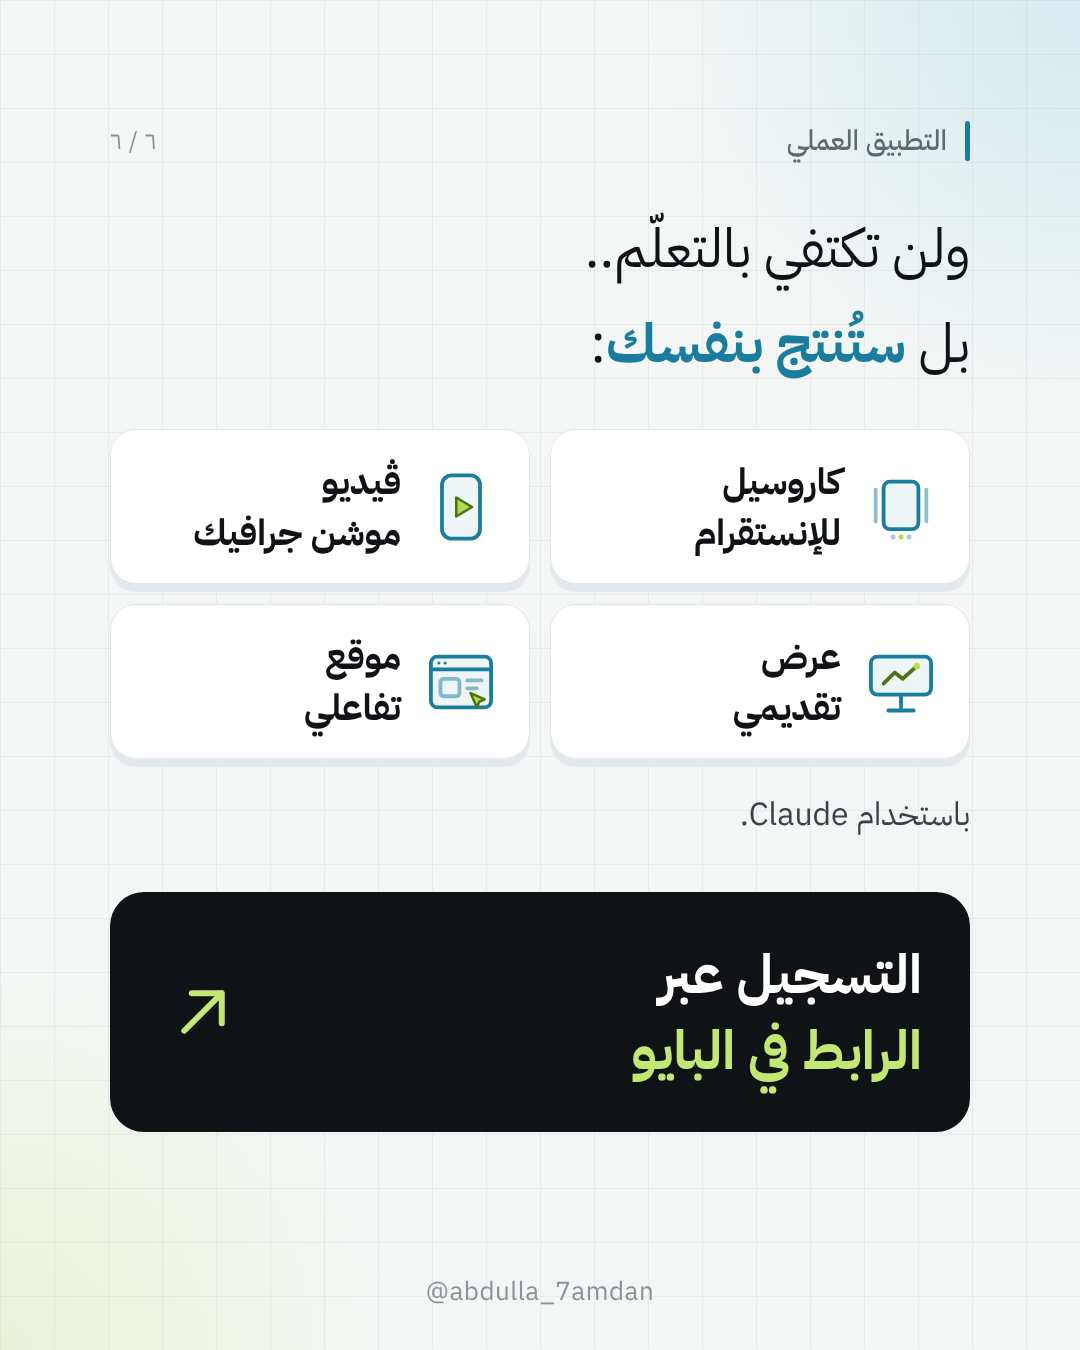
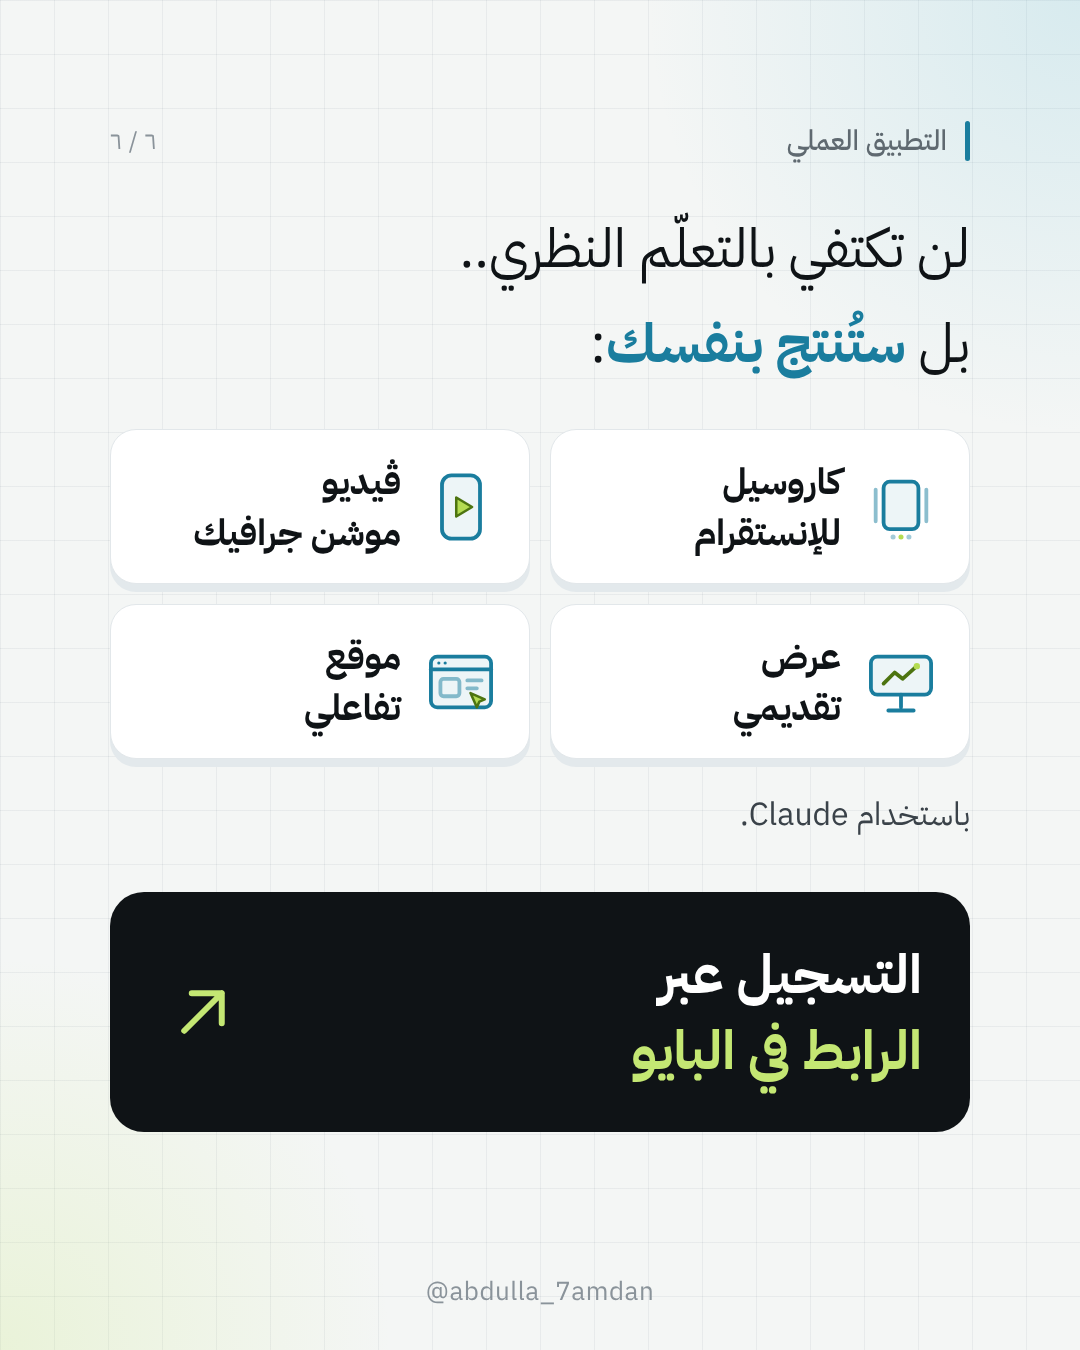
Claude course: reword last-slide lead
Claude-Session: https://claude.ai/code/session_01BaYRa7bC6zxZgA65wvC7DU

Changed region(s): [[0.4278, 0.1556, 0.8861, 0.2178]]

diff --git a/carousels/dawrat-ai/carousel-light.html b/carousels/dawrat-ai/carousel-light.html
@@ -267,7 +267,7 @@ b{font-weight:700;color:var(--blue)}
 <section class="slide">
   <div class="head">التطبيق العملي<span class="count">٦ / ٦</span></div>
   <div class="body">
-    <p class="t" style="font-size:54px">ولن تكتفي بالتعلّم..<br>بل <b>ستُنتج بنفسك</b>:</p>
+    <p class="t" style="font-size:54px">لن تكتفي بالتعلّم النظري..<br>بل <b>ستُنتج بنفسك</b>:</p>
     <div class="outs">
       <div class="out">
         <svg viewBox="0 0 48 48" fill="none" stroke="#1a7d9e" stroke-width="2.4" stroke-linejoin="round"><rect x="13" y="8" width="22" height="30" rx="4" fill="#1a7d9e" fill-opacity=".08"/><path d="M8 13v20M40 13v20" stroke-linecap="round" stroke-opacity=".5"/><circle cx="24" cy="43" r="1.6" fill="#b4dc52" stroke="none"/><circle cx="19" cy="43" r="1.6" fill="#1a7d9e" fill-opacity=".4" stroke="none"/><circle cx="29" cy="43" r="1.6" fill="#1a7d9e" fill-opacity=".4" stroke="none"/></svg>
